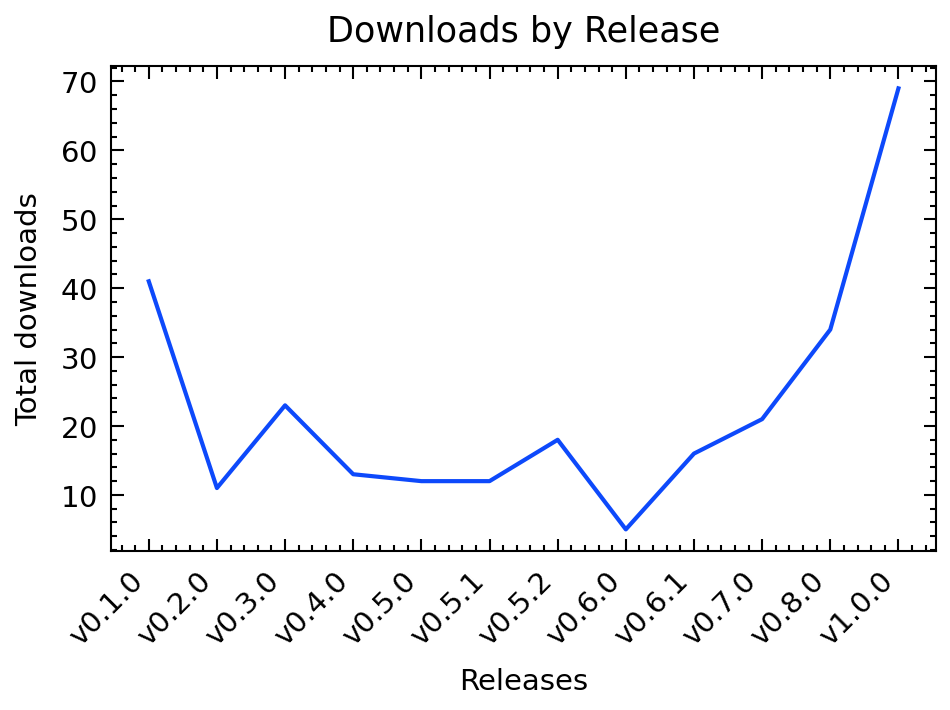
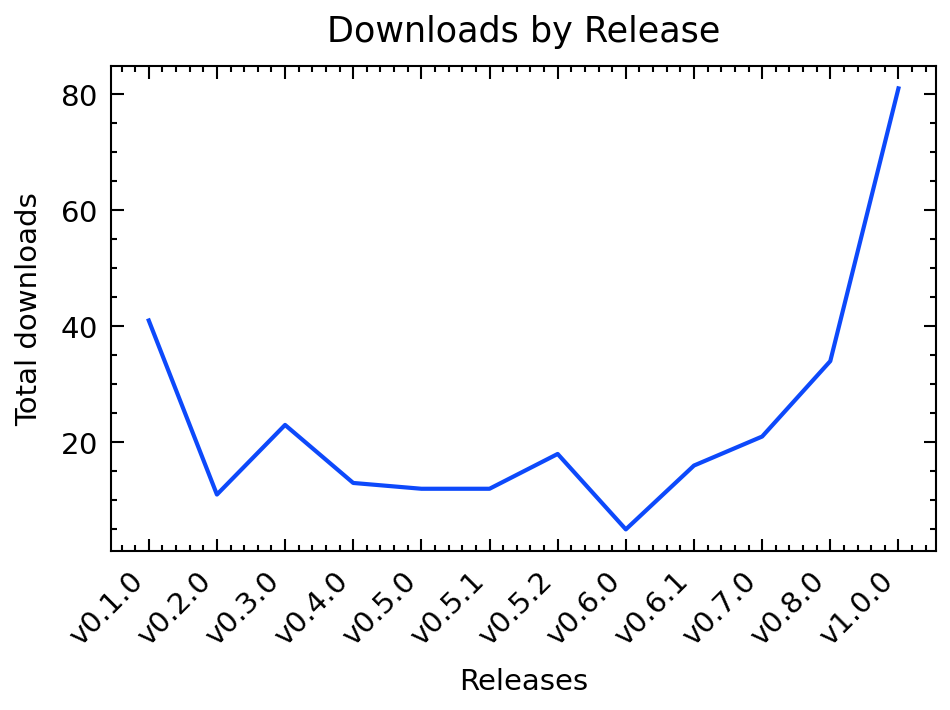
Updated Metrics data

diff --git a/README.md b/README.md
@@ -4,7 +4,7 @@
 SciWIn-Client helps users creating **Computational Workflows** in CWL. Detailed Information about SciWIn-Client can be found in the [GitHub Repository](https://github.com/fairagro/m4.4_sciwin_client). The Metrics shown below have been calculated using the GitHub API. Presentation is done via a CWL Workflow and the scripts in this repository.
 
 ## Downloads by Version
-SciWIn-Client currently has about 275 overall downloads across all versions and operating systems. The lastest version v1.0.0 currently has 69 downloads.
+SciWIn-Client currently has about 287 overall downloads across all versions and operating systems. The lastest version v1.0.0 currently has 81 downloads.
 
 
 ![downloads by version](release.png)
@@ -12,7 +12,7 @@ SciWIn-Client currently has about 275 overall downloads across all versions and 
 
 | Version | Downloads |
 |---------|-----------|
-| v1.0.0 | 69|
+| v1.0.0 | 81|
 | v0.8.0 | 34|
 | v0.7.0 | 21|
 | v0.6.1 | 16|
@@ -27,7 +27,7 @@ SciWIn-Client currently has about 275 overall downloads across all versions and 
 
 
 ## Downloads by Operating System
-SciWIn-Client is used on all major operating systems. There are 159 downloads of the Linux executable, 50 downloads of the Windows executable and 66 downloads of the Mac OS executable.
+SciWIn-Client is used on all major operating systems. There are 159 downloads of the Linux executable, 62 downloads of the Windows executable and 66 downloads of the Mac OS executable.
 
 
 ![downloads by platform](platform.png)
@@ -38,12 +38,12 @@ SciWIn-Client is used on all major operating systems. There are 159 downloads of
 | MacOS (ARM) | 38|
 | Linux (ARM) | 34|
 | MacOS (x64) | 28|
-| Windows (x64) | 50|
+| Windows (x64) | 62|
 | Linux (x64) | 125|
 
 
 ## Historical Download Chart
-The historical download chart can be viewed below. It is shown how the 275 overall downloads progressed over time by using the commited data of this repository.
+The historical download chart can be viewed below. It is shown how the 287 overall downloads progressed over time by using the commited data of this repository.
 
 
 ![downloads by date](history.png)
